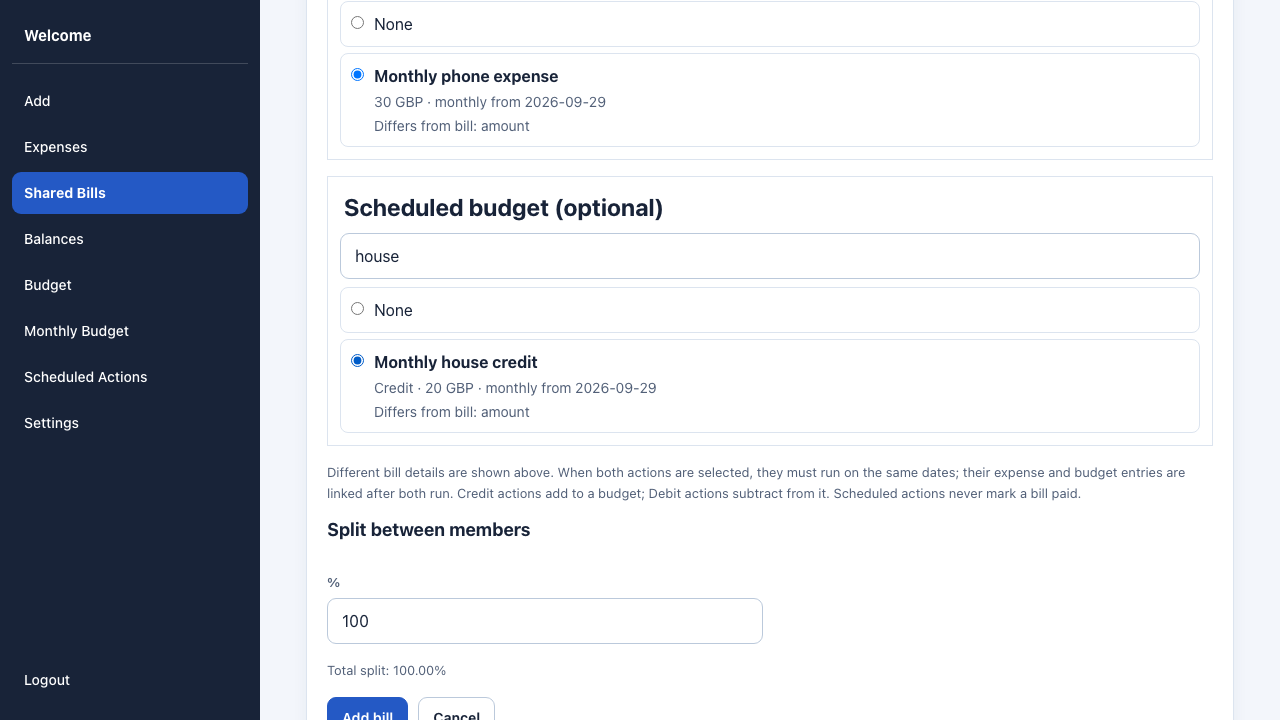
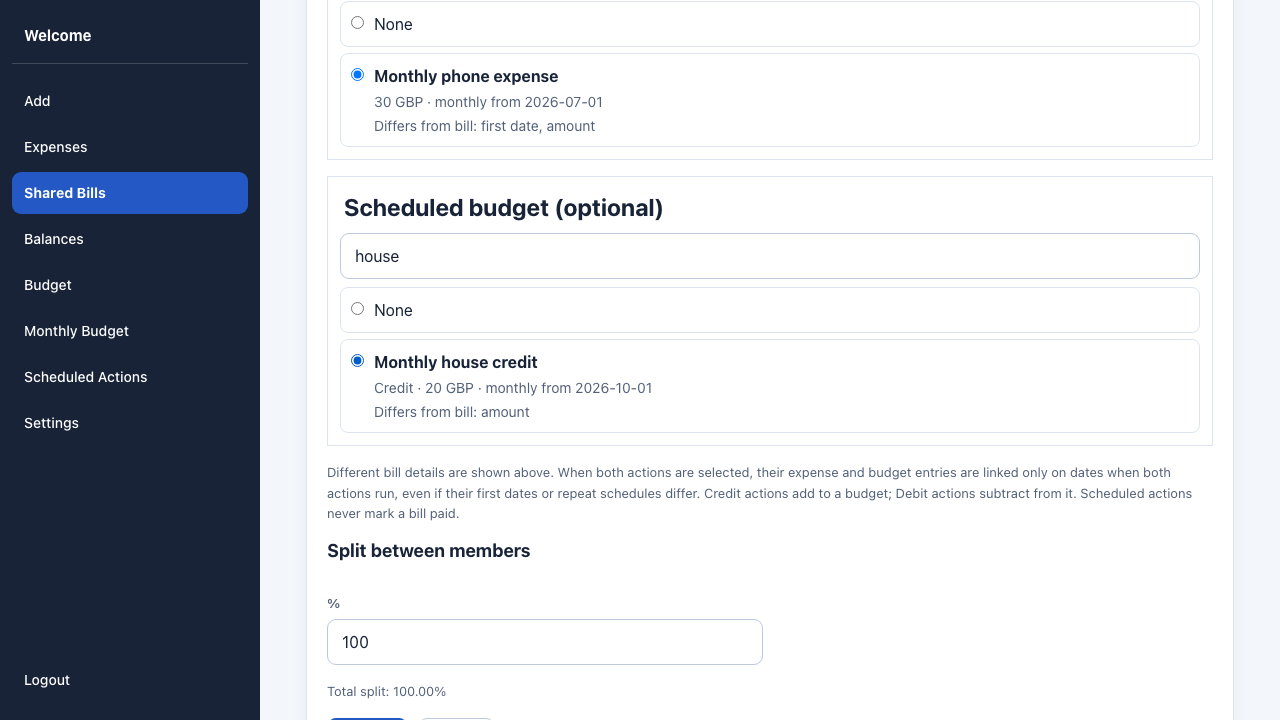
Allow bill pairing on overlapping scheduled run dates (#106)

diff --git a/cf-worker/src/tests/bills.test.ts b/cf-worker/src/tests/bills.test.ts
@@ -113,14 +113,15 @@ describe("shared bills", () => {
 		expect((await db.select().from(transactions).where(eq(transactions.transactionId, `tx_${actionId}_${date}`))).length).toBe(1);
 	});
 
-	it.each(["expense-first", "budget-first"])("pairs scheduled expense and budget entries when %s", async (order: string) => {
+	it.each(["expense-first", "budget-first"])("pairs overlapping runs with different first dates when %s", async (order: string) => {
 		const db = getDb(env);
-		const date = "2026-12-04";
+		const date = "2026-10-01";
+		const earlierDate = "2026-07-01";
 		const now = new Date().toISOString();
 		const expenseId = `pair-expense-${order}`;
 		const budgetId = `pair-budget-${order}`;
 		await db.insert(scheduledActions).values([
-			{ id: expenseId, userId: users.user1.id, actionType: "add_expense", frequency: "monthly", startDate: date, nextExecutionDate: date, createdAt: now, updatedAt: now,
+			{ id: expenseId, userId: users.user1.id, actionType: "add_expense", frequency: "monthly", startDate: earlierDate, nextExecutionDate: earlierDate, createdAt: now, updatedAt: now,
 				actionData: { amount: 30, description: "Different expense", currency: "USD", paidByUserId: users.user1.id, splitPctShares: { [users.user1.id]: 100 } } },
 			{ id: budgetId, userId: users.user1.id, actionType: "add_budget", frequency: "monthly", startDate: date, nextExecutionDate: date, createdAt: now, updatedAt: now,
 				actionData: { amount: 20, description: "Different budget", currency: "USD", budgetId: users.budgetIds.house, type: "Debit" } },
@@ -128,14 +129,18 @@ describe("shared bills", () => {
 		const body = { title: "Rent", amountMinor: 5000, currency: "USD", firstDueDate: date, recurrence: "monthly",
 			payerUserId: users.user2.id, splitBasisPoints: { [users.user1.id]: 5000, [users.user2.id]: 5000 }, scheduledActionId: expenseId, scheduledBudgetActionId: budgetId };
 		expect((await fetchBill(request("bills", "POST", cookies, body), env)).status).toBe(201);
+		const earlyAction = (await db.select().from(scheduledActions).where(eq(scheduledActions.id, expenseId)))[0];
+		const owner = { groupid: users.testGroupId } as Parameters<typeof processExpenseAction>[2];
+		const earlyRun = await processExpenseAction(env, earlyAction, owner, earlierDate);
+		await executeActionStatements(env, earlyAction, `history-${expenseId}-early`, 1, earlyRun.resultData, earlyRun.statements, new Date(`${earlierDate}T00:00:00Z`));
+		expect(await db.select().from(expenseBudgetLinks)).toHaveLength(0);
 		const options = await (await fetchBill(request("bills/scheduled-options", "GET", cookies), env)).json() as Array<{ id: string; actionType: string; budgetType?: string }>;
 		expect(options.find((option) => option.id === budgetId)).toMatchObject({ actionType: "add_budget", budgetType: "Debit" });
-		const occurrenceId = ((await (await fetchBill(request("bills/month?month=2026-12", "GET", cookies), env)).json()) as { occurrences: Array<{ id: string }> }).occurrences[0].id;
+		const occurrenceId = ((await (await fetchBill(request("bills/month?month=2026-10", "GET", cookies), env)).json()) as { occurrences: Array<{ id: string }> }).occurrences[0].id;
 		expect((await fetchBill(request("bills/payment", "POST", cookies, { occurrenceId, paid: true, createExpense: true, budgetId: users.budgetIds.house }), env)).status).toBe(409);
 		const actions = await db.select().from(scheduledActions);
 		for (const id of order === "expense-first" ? [expenseId, budgetId] : [budgetId, expenseId]) {
 			const action = actions.find((candidate) => candidate.id === id)!;
-			const owner = { groupid: users.testGroupId } as Parameters<typeof processExpenseAction>[2];
 			const result = id === expenseId ? await processExpenseAction(env, action, owner, date) : await processBudgetAction(env, action, owner, date);
 			await executeActionStatements(env, action, `history-${id}`, 1, result.resultData, result.statements, new Date(`${date}T00:00:00Z`));
 		}
@@ -147,31 +152,66 @@ describe("shared bills", () => {
 		expect((await db.select().from(expenseBudgetLinks))).toHaveLength(1);
 	});
 
-	it("rejects a pair whose run schedules differ", async () => {
+	it("allows actions with nonoverlapping run dates without linking entries", async () => {
 		const db = getDb(env);
-		const date = "2026-12-04";
+		const expenseDate = "2026-10-01";
+		const budgetDate = "2026-10-02";
 		const now = new Date().toISOString();
 		await db.insert(scheduledActions).values([
-			{ id: "mismatch-expense", userId: users.user1.id, actionType: "add_expense", frequency: "monthly", startDate: date, nextExecutionDate: date, createdAt: now, updatedAt: now,
+			{ id: "mismatch-expense", userId: users.user1.id, actionType: "add_expense", frequency: "monthly", startDate: expenseDate, nextExecutionDate: expenseDate, createdAt: now, updatedAt: now,
 				actionData: { amount: 30, description: "Expense", currency: "USD", paidByUserId: users.user1.id, splitPctShares: { [users.user1.id]: 100 } } },
-			{ id: "mismatch-budget", userId: users.user1.id, actionType: "add_budget", frequency: "weekly", startDate: date, nextExecutionDate: date, createdAt: now, updatedAt: now,
+			{ id: "mismatch-budget", userId: users.user1.id, actionType: "add_budget", frequency: "monthly", startDate: budgetDate, nextExecutionDate: budgetDate, createdAt: now, updatedAt: now,
+				actionData: { amount: 20, description: "Budget", currency: "USD", budgetId: users.budgetIds.house, type: "Credit" } },
+		]);
+		const response = await fetchBill(request("bills", "POST", cookies, { title: "Rent", amountMinor: 5000, currency: "USD", firstDueDate: expenseDate, recurrence: "monthly", payerUserId: users.user1.id,
+			splitBasisPoints: { [users.user1.id]: 10000 }, scheduledActionId: "mismatch-expense", scheduledBudgetActionId: "mismatch-budget" }), env);
+		expect(response.status).toBe(201);
+		for (const [id, date] of [["mismatch-expense", expenseDate], ["mismatch-budget", budgetDate]]) {
+			const action = (await db.select().from(scheduledActions).where(eq(scheduledActions.id, id)))[0];
+			const owner = { groupid: users.testGroupId } as Parameters<typeof processExpenseAction>[2];
+			const result = id === "mismatch-expense" ? await processExpenseAction(env, action, owner, date) : await processBudgetAction(env, action, owner, date);
+			await executeActionStatements(env, action, `history-${id}`, 1, result.resultData, result.statements, new Date(`${date}T00:00:00Z`));
+		}
+		expect(await db.select().from(expenseBudgetLinks)).toHaveLength(0);
+	});
+
+	it("accepts different frequencies and pairs a shared run date", async () => {
+		const db = getDb(env);
+		const date = "2026-10-01";
+		const now = new Date().toISOString();
+		await db.insert(scheduledActions).values([
+			{ id: "weekly-expense", userId: users.user1.id, actionType: "add_expense", frequency: "weekly", startDate: date, nextExecutionDate: date, createdAt: now, updatedAt: now,
+				actionData: { amount: 30, description: "Expense", currency: "USD", paidByUserId: users.user1.id, splitPctShares: { [users.user1.id]: 100 } } },
+			{ id: "monthly-budget", userId: users.user1.id, actionType: "add_budget", frequency: "monthly", startDate: date, nextExecutionDate: date, createdAt: now, updatedAt: now,
 				actionData: { amount: 20, description: "Budget", currency: "USD", budgetId: users.budgetIds.house, type: "Credit" } },
 		]);
 		const response = await fetchBill(request("bills", "POST", cookies, { title: "Rent", amountMinor: 5000, currency: "USD", firstDueDate: date, recurrence: "monthly", payerUserId: users.user1.id,
-			splitBasisPoints: { [users.user1.id]: 10000 }, scheduledActionId: "mismatch-expense", scheduledBudgetActionId: "mismatch-budget" }), env);
-		expect(response.status).toBe(400);
+			splitBasisPoints: { [users.user1.id]: 10000 }, scheduledActionId: "weekly-expense", scheduledBudgetActionId: "monthly-budget" }), env);
+		expect(response.status).toBe(201);
+		for (const id of ["weekly-expense", "monthly-budget"]) {
+			const action = (await db.select().from(scheduledActions).where(eq(scheduledActions.id, id)))[0];
+			const owner = { groupid: users.testGroupId } as Parameters<typeof processExpenseAction>[2];
+			const result = id === "weekly-expense" ? await processExpenseAction(env, action, owner, date) : await processBudgetAction(env, action, owner, date);
+			await executeActionStatements(env, action, `history-${id}`, 1, result.resultData, result.statements, new Date(`${date}T00:00:00Z`));
+		}
+		expect(await db.select().from(expenseBudgetLinks)).toHaveLength(1);
 	});
 
 	it("pairs prior outputs when a bill is linked after both actions ran", async () => {
 		const db = getDb(env);
-		const date = "2026-12-05";
+		const date = "2026-10-01";
+		const earlierDate = "2026-07-01";
 		const now = new Date().toISOString();
 		await db.insert(scheduledActions).values([
-			{ id: "prior-expense", userId: users.user1.id, actionType: "add_expense", frequency: "monthly", startDate: date, nextExecutionDate: date, createdAt: now, updatedAt: now,
+			{ id: "prior-expense", userId: users.user1.id, actionType: "add_expense", frequency: "monthly", startDate: earlierDate, nextExecutionDate: earlierDate, createdAt: now, updatedAt: now,
 				actionData: { amount: 40, description: "Prior expense", currency: "USD", paidByUserId: users.user1.id, splitPctShares: { [users.user1.id]: 100 } } },
 			{ id: "prior-budget", userId: users.user1.id, actionType: "add_budget", frequency: "monthly", startDate: date, nextExecutionDate: date, createdAt: now, updatedAt: now,
 				actionData: { amount: 40, description: "Prior credit", currency: "USD", budgetId: users.budgetIds.house, type: "Credit" } },
 		]);
+		const earlyAction = (await db.select().from(scheduledActions).where(eq(scheduledActions.id, "prior-expense")))[0];
+		const earlyOwner = { groupid: users.testGroupId } as Parameters<typeof processExpenseAction>[2];
+		const earlyRun = await processExpenseAction(env, earlyAction, earlyOwner, earlierDate);
+		await db.batch([earlyRun.statements[0].query, ...earlyRun.statements.slice(1).map((statement) => statement.query)]);
 		for (const action of await db.select().from(scheduledActions)) {
 			const owner = { groupid: users.testGroupId } as Parameters<typeof processExpenseAction>[2];
 			const result = action.actionType === "add_expense" ? await processExpenseAction(env, action, owner, date) : await processBudgetAction(env, action, owner, date);
@@ -181,6 +221,6 @@ describe("shared bills", () => {
 		const response = await fetchBill(request("bills", "POST", cookies, { title: "Later linked bill", amountMinor: 4000, currency: "USD", firstDueDate: date, recurrence: "monthly",
 			payerUserId: users.user1.id, splitBasisPoints: { [users.user1.id]: 10000 }, scheduledActionId: "prior-expense", scheduledBudgetActionId: "prior-budget" }), env);
 		expect(response.status).toBe(201);
-		expect((await db.select().from(expenseBudgetLinks))).toHaveLength(1);
+		expect(await db.select().from(expenseBudgetLinks)).toMatchObject([{ transactionId: `tx_prior-expense_${date}`, budgetEntryId: `bge_prior-budget_${date}` }]);
 	});
 });

diff --git a/src/e2e/tests/bills.spec.ts b/src/e2e/tests/bills.spec.ts
@@ -56,19 +56,22 @@ test.describe("Shared bills", () => {
 		await expect(due).toContainText("Linked expense:");
 	});
 
-	test("pick different scheduled expense and budget actions and explain payment behavior", async ({ page, seed }, testInfo) => {
+	test("pick monthly actions with different first dates and explain payment behavior", async ({ page, seed }, testInfo) => {
 		const result = await seed({ users: [factories.user({ alias: "u" })], groups: [factories.group({ alias: "g", members: ["u"], budgets: [{ alias: "b", name: "House" }] })], authenticate: ["u"] });
 		const userId = result.ids.users.u.id;
 		const cookie = result.sessions.u.cookies.map((entry) => `${entry.name}=${entry.value}`).join("; ");
 		const headers = { "Content-Type": "application/json", Cookie: cookie };
 		const groupResponse = await fetch(`${backend}/.netlify/functions/group/details`, { headers });
 		const group = await groupResponse.json() as { budgets: Array<{ id: string }> };
-		const date = new Date().toISOString().slice(0, 10);
+		const now = new Date();
+		const targetMonth = new Date(Date.UTC(now.getUTCFullYear(), now.getUTCMonth() + 1, 1));
+		const date = targetMonth.toISOString().slice(0, 10);
+		const expenseStartDate = new Date(Date.UTC(targetMonth.getUTCFullYear(), targetMonth.getUTCMonth() - 3, 1)).toISOString().slice(0, 10);
 		for (const action of [
-			{ actionType: "add_expense", actionData: { amount: 30, description: "Monthly phone expense", currency: "GBP", paidByUserId: userId, splitPctShares: { [userId]: 100 } } },
-			{ actionType: "add_budget", actionData: { amount: 20, description: "Monthly house credit", currency: "GBP", budgetId: group.budgets[0].id, type: "Credit" } },
+			{ actionType: "add_expense", startDate: expenseStartDate, actionData: { amount: 30, description: "Monthly phone expense", currency: "GBP", paidByUserId: userId, splitPctShares: { [userId]: 100 } } },
+			{ actionType: "add_budget", startDate: date, actionData: { amount: 20, description: "Monthly house credit", currency: "GBP", budgetId: group.budgets[0].id, type: "Credit" } },
 		]) {
-			const response = await fetch(`${backend}/.netlify/functions/scheduled-actions`, { method: "POST", headers, body: JSON.stringify({ ...action, frequency: "monthly", startDate: date }) });
+			const response = await fetch(`${backend}/.netlify/functions/scheduled-actions`, { method: "POST", headers, body: JSON.stringify({ ...action, frequency: "monthly" }) });
 			expect(response.status).toBe(201);
 		}
 		await page.goto(`/bills?month=${date.slice(0, 7)}`);
@@ -84,6 +87,7 @@ test.describe("Shared bills", () => {
 		await form.getByRole("searchbox", { name: "Search scheduled budget (optional)" }).fill("house");
 		await form.getByRole("radio", { name: /Monthly house credit/ }).check();
 		await expect(form).toContainText("Credit · 20 GBP");
+		await expect(form).toContainText("linked only on dates when both actions run");
 		if (process.env.CAPTURE_BILL_PREVIEWS) await page.screenshot({ path: `docs/previews/bill-action-pickers-${testInfo.project.name === "chromium" ? "desktop" : "mobile"}.png`, fullPage: true });
 		await form.getByRole("button", { name: "Add bill" }).click();
 		await expect(form).toBeHidden();

diff --git a/src/pages/Bills/BillForm.tsx b/src/pages/Bills/BillForm.tsx
@@ -71,9 +71,6 @@ export function BillForm({ initial, members, defaultCurrency, defaultShares, onS
 	const total = Object.values(shares).reduce((sum, share) => sum + (Number(share) || 0), 0);
 	const expenseOptions = options.data?.filter((option) => option.actionType === "add_expense") ?? [];
 	const budgetOptions = options.data?.filter((option) => option.actionType === "add_budget") ?? [];
-	const selectedExpense = expenseOptions.find((option) => option.id === scheduledActionId);
-	const selectedBudget = budgetOptions.find((option) => option.id === scheduledBudgetActionId);
-	const pairMismatch = selectedExpense && selectedBudget && (selectedExpense.frequency !== selectedBudget.frequency || selectedExpense.startDate !== selectedBudget.startDate);
 	function differences(option: BillScheduledOption): string[] {
 		const result: string[] = [];
 		if (option.startDate !== firstDueDate) result.push("first date");
@@ -91,7 +88,6 @@ export function BillForm({ initial, members, defaultCurrency, defaultShares, onS
 	async function submit(event: React.FormEvent) {
 		event.preventDefault();
 		setError("");
-		if (pairMismatch) { setError("Expense and budget actions must have the same first date and repeat schedule to link their entries."); return; }
 		const amountMinor = amountToMinor(amount, currency);
 		if (amountMinor === null) { setError("Enter a positive amount with the correct currency precision."); return; }
 		const splitBasisPoints = Object.fromEntries(members.map(({ id }) => [id, Math.round(Number(shares[id] || 0) * 100)]));
@@ -117,8 +113,7 @@ export function BillForm({ initial, members, defaultCurrency, defaultShares, onS
 			</Grid>
 			<ActionPicker label="Scheduled expense (optional)" selected={scheduledActionId} onSelect={setScheduledActionId} options={expenseOptions} differences={differences} />
 			<ActionPicker label="Scheduled budget (optional)" selected={scheduledBudgetActionId} onSelect={setScheduledBudgetActionId} options={budgetOptions} differences={differences} />
-			<Hint>Different bill details are shown above. When both actions are selected, they must run on the same dates; their expense and budget entries are linked after both run. Credit actions add to a budget; Debit actions subtract from it. Scheduled actions never mark a bill paid.</Hint>
-			{pairMismatch && <Hint role="alert">Expense and budget actions need the same first date and repeat schedule to pair their entries.</Hint>}
+			<Hint>Different bill details are shown above. When both actions are selected, their expense and budget entries are linked only on dates when both actions run, even if their first dates or repeat schedules differ. Credit actions add to a budget; Debit actions subtract from it. Scheduled actions never mark a bill paid.</Hint>
 			<UiSectionTitle>Split between members</UiSectionTitle>
 			<Grid>{members.map((member) => <FieldLabel key={member.id}>{member.name} %<Input type="number" min="0" max="100" step="0.01" value={shares[member.id] ?? "0"} onChange={(event) => setShares((current) => ({ ...current, [member.id]: event.target.value }))} /></FieldLabel>)}</Grid>
 			<Hint role="status">Total split: {total.toFixed(2)}%</Hint>

diff --git a/cf-worker/src/handlers/bills.ts b/cf-worker/src/handlers/bills.ts
@@ -59,19 +59,13 @@ async function scheduledOutputId(db: Db, actionId: string | null | undefined, du
 	return kind === "expense" ? generateDeterministicTransactionId(actionId, dueDate) : generateDeterministicBudgetId(actionId, dueDate);
 }
 
-// biome-ignore lint/complexity/noExcessiveCognitiveComplexity: validates two linked action types and their shared run schedule
 async function validateScheduledLink(db: Db, group: string, plan: Pick<Bill, "scheduledActionId" | "scheduledBudgetActionId">): Promise<string | null> {
 	const choices = [[plan.scheduledActionId, "add_expense"], [plan.scheduledBudgetActionId, "add_budget"]] as const;
-	const selected = [];
 	for (const [id, type] of choices) {
 		if (!id) continue;
 		const row = (await db.select({ action: scheduledActions, owner: user }).from(scheduledActions)
 			.innerJoin(user, eq(scheduledActions.userId, user.id)).where(eq(scheduledActions.id, id)).limit(1))[0];
 		if (!row || row.owner.groupid !== group || row.action.actionType !== type) return `Choose a scheduled ${type === "add_expense" ? "expense" : "budget"} from this group`;
-		selected.push(row.action);
-	}
-	if (selected.length === 2 && (selected[0].frequency !== selected[1].frequency || selected[0].startDate !== selected[1].startDate)) {
-		return "Selected expense and budget actions must have the same first date and repeat schedule";
 	}
 	return null;
 }

diff --git a/docs/api.md b/docs/api.md
@@ -797,10 +797,10 @@ date. Monthly bills due on days 29–31 use the last day in shorter months.
 `scheduledActionId` and `scheduledBudgetActionId` must name an expense and
 budget action in the group, respectively. Their details can differ from the
 bill; the picker shows those differences. When both are selected, the two
-actions must have the same first date and frequency. Each action can link to
-one bill. Their generated expense and budget entry are linked by run date,
-regardless of which action runs first; existing matching outputs are paired
-when the bill is linked. A scheduled budget Credit adds funds;
+actions may have different first dates and frequencies. Each action can link to
+one bill. Their generated expense and budget entry are linked only on dates
+when both actions run, regardless of which runs first. Existing matching
+outputs are paired when the bill is linked. A scheduled budget Credit adds funds;
 a Debit subtracts them. Existing outputs appear as `scheduledTransactionId`
 and `scheduledBudgetEntryId` on the occurrence when they ran on its due date.
 Scheduled actions do not mark the bill paid.

diff --git a/docs/user-flows.md b/docs/user-flows.md
@@ -292,9 +292,10 @@ Shares must total 100%. The form uses the group's default currency and shares
 when available. Searchable pickers let you choose a group scheduled expense,
 a scheduled budget action, or both. They show amount, currency, run schedule,
 active status, and any differences from the bill. Budget actions are labelled
-Credit or Debit. When both are chosen, they must share a first date and cadence;
-their generated entries are linked on each shared run date, even if either runs
-first or both ran before the bill was linked. Scheduled actions do not confirm payment.
+Credit or Debit. When both are chosen, their generated entries are linked only
+on dates when both actions actually run, even if their first dates or repeat
+schedules differ, either runs first, or both ran before the bill was linked.
+Scheduled actions do not confirm payment.
 The picker is shown in [desktop](previews/bill-action-pickers-desktop.png) and
 [mobile](previews/bill-action-pickers-mobile.png) previews.
 Existing plans can be edited, stopped, or resumed. Editing refreshes
